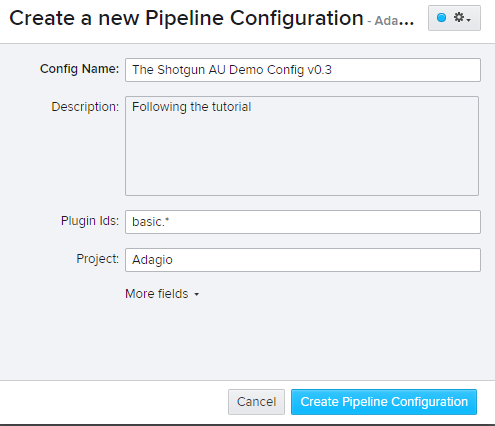
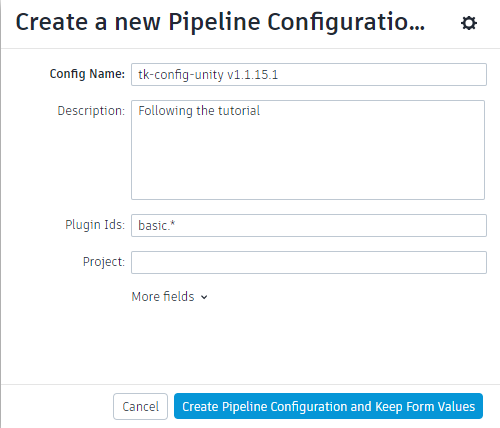
* Updated docs for tk-config-unity 1.1.15.1

diff --git a/startup/com.unity.integrations.shotgun/Documentation~/preparingUnityProject.md b/startup/com.unity.integrations.shotgun/Documentation~/preparingUnityProject.md
@@ -1,12 +1,10 @@
 # Preparing a Unity project for Shotgun
 
-You will need to add the Python package to your Unity project’s Packages/manifest.json file, like so:
+You will need to add the Shotgun package to your Unity project’s Packages/manifest.json file, like so:
 ```
 {
   "dependencies": {
-    ...
-    ...
-    "com.unity.scripting.python": "1.1.1-preview"
+    "com.unity.integrations.shotgun": "0.1.0-preview"
   },
   "registry": "https://staging-packages.unity.com"
 }
@@ -14,14 +12,13 @@ You will need to add the Python package to your Unity project’s Packages/manif
 
 ## Compatibility Matrix
 
-Please use the python package version corresponding to your configuration version
+Please use the shotgun package version corresponding to your configuration version
 
-| shotgun-au-demo version | com.unity.scripting.python version |
-| :---------------------- | :--------------------------------- |
-| 0.3                     | 1.1.0-preview                      |
-| 0.4                     | 1.1.1-preview                      |
+| tk-config-unity version | com.unity.integrations.shotgunversion |
+| :---------------------- | :------------------------------------ |
+| 1.1.15.1                | 0.1.0-preview                         |
    
-Starting with v0.4 of the config, Shotgun should automatically initialize on Unity startup. You should see Shotgun-related entries in the console (e.g. “[1] - Engine launched.”). If not use the Shotgun/Debug/Bootstrap Engine menu.
+Shotgun should automatically initialize on Unity startup. You should see Shotgun-related entries in the console (e.g. “[1] - Engine launched.”). If not use the Shotgun/Debug/Bootstrap Engine menu.
 
 You can now use the Shotgun menu applications. Note that windows tend to pop up behind the Unity window. Also, it is recommended to disable Debug Logging for better performance (right-click in a gray area of Shotgun Desktop / Advanced / Toggle Debug Logging):
 

diff --git a/startup/com.unity.integrations.shotgun/Documentation~/installPython.md b/startup/com.unity.integrations.shotgun/Documentation~/installPython.md
@@ -21,7 +21,46 @@ To verify that your Python interpreter is properly configured, follow these step
 
 The Python interpreter should launch. It should report a 64-bit version of Python 2.7
 
-Run this [Python script](Python/validate_python.py):
-* In the interpreter, use "execfile" to execute the script
-* In a command prompt/shell, pass the script to the interpreter
+Copy the following code in a Python script (e.g. validate_python.py) and run it, by either:
+* using "execfile" in the Python interpreter to execute the script (e.g. `execfile('validate_python.py')`)
+* passing the script to the interpreter in a command prompt/shell (e.g. `python.exe validate_python.py`)
 
+
+*validate_python.py*
+```
+import sys
+# Python version (expected: 2.7 64 bit)
+try:
+	import platform
+	version = platform.python_version()
+	tokens = version.split('.')
+
+	if len(tokens) < 2 or int(tokens[0]) != 2 or int(tokens[1]) != 7:
+		print('ERROR: invalid Python version. Expected 2.7.x, got %s'%version)
+		sys.exit(1)
+	
+	(bits,_) = platform.architecture()
+	if bits != '64bit':
+		print('ERROR: invalid architecture. Expected "64bit", got "%s"'%bits)
+		sys.exit(1)
+	
+except:
+	print('ERROR: could not determine the Python version')
+	sys.exit(1)
+
+# PySide 
+try:
+	import PySide
+except:
+	print('ERROR: could not import PySide')
+	sys.exit(1)
+
+# rpyc
+try:
+	import rpyc
+except:
+	print('ERROR: could not import rpyc')
+	sys.exit(1)
+	
+print('SUCCESS: The Python interpreter is properly configured for Shotgun in Unity')
+```

diff --git a/startup/com.unity.integrations.shotgun/Documentation~/bakedConfig.md b/startup/com.unity.integrations.shotgun/Documentation~/bakedConfig.md
@@ -1,9 +1,9 @@
 # The Shotgun Configuration
 
 ## Baked configuration
-The easiest way to get started is to use our latest pipeline configuration. Simply follow these steps in order to use it:
+The easiest way to get started is to use our latest tk-config-unity pipeline configuration. It is constantly kept up-to-date with the tk-config-default2 configuration. Simply follow these steps in order to use it:
 
-1. Download the baked configuration zip file. It is attached to its corresponding github release. For example, you can download the shotgun-au-demo configuration version 0.3 by following [this link](https://github.com/Unity-Technologies/shotgun-au-demo/releases/download/v0.3/shotgun-au-demo-baked-v0.3.zip).
+1. Download the baked configuration zip file. It is attached to its corresponding github release. For example, you can download the tk-config-unity configuration version 1.1.15.1 by following [this link](https://github.com/Unity-Technologies/tk-config-unity/releases/download/v1.1.15.1/tk-config-unity-v1.1.15.1.zip).
 2. In the Shotgun Web Client, go to “Your Avatar”/Default Layouts/Pipeline Configuration/Pipeline Configuration List
 3. Create a new Pipeline Configuration
 
